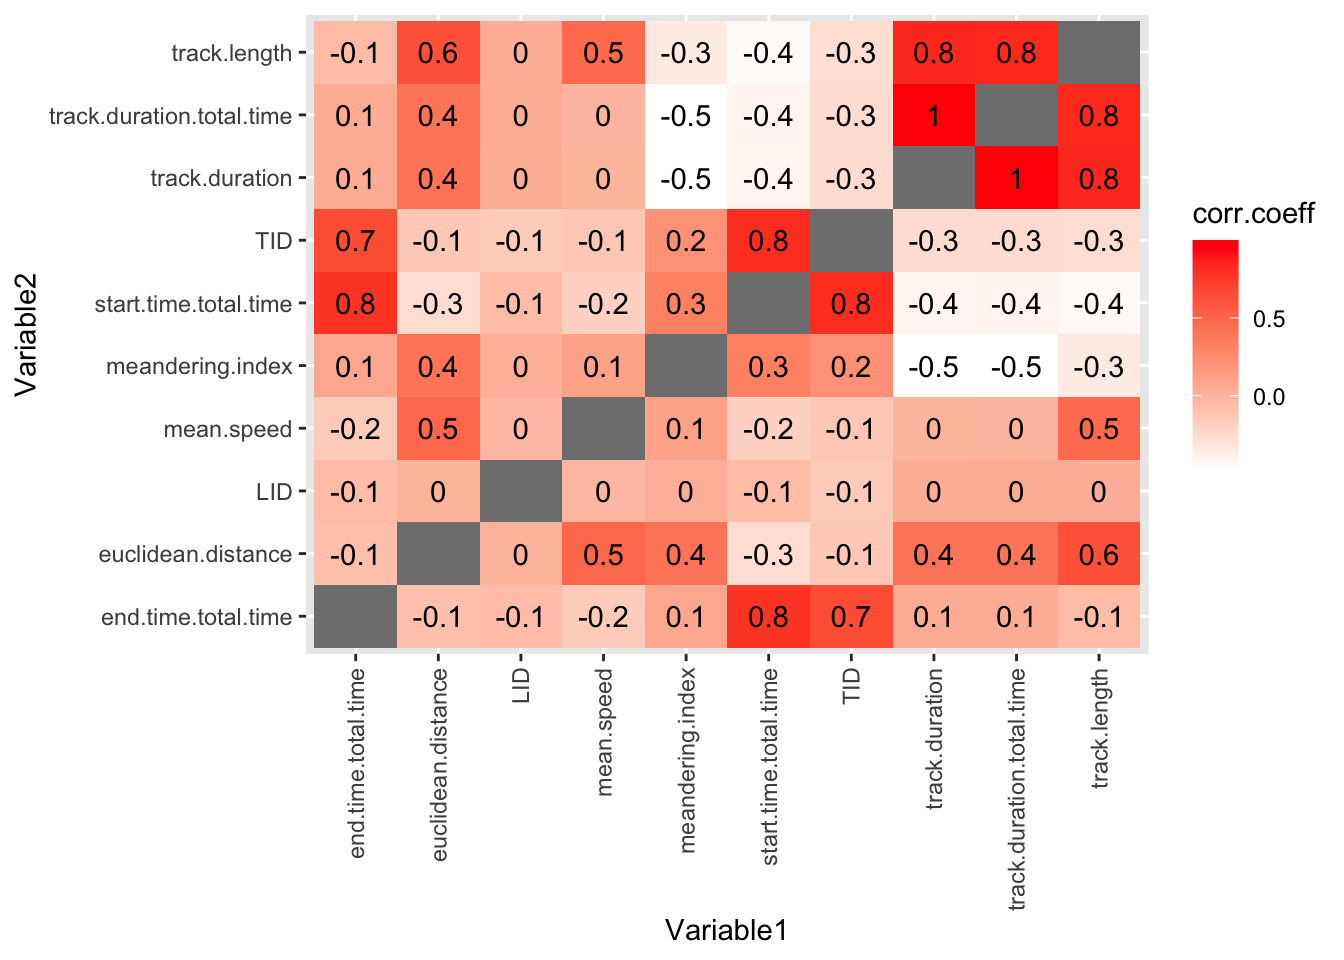
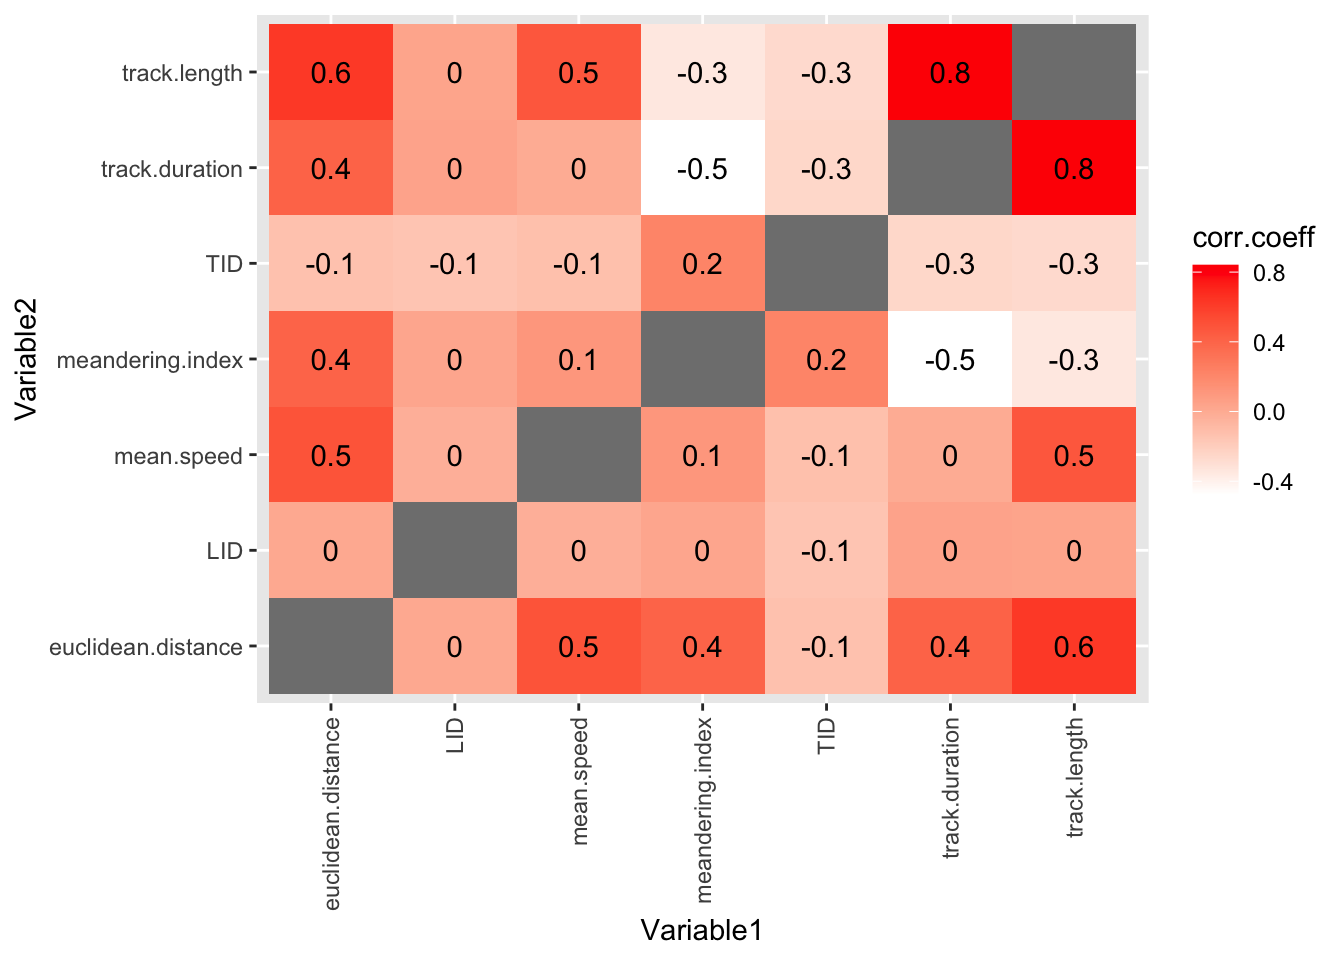
update w3 as per Amandas requests

diff --git a/docs/workshop3.html b/docs/workshop3.html
@@ -532,13 +532,13 @@ Optional
 <p>So Amanda spent many hours <em>manually</em> tracking cells. These results were processed into manual tracking data. First, load the data and of course <strong>examine what you have</strong>.</p>
 <div class="cell">
 <div class="sourceCode" id="cb16"><pre class="downlit sourceCode r code-with-copy"><code class="sourceCode R"><span><span class="co">#load the manual tracking data</span></span>
-<span><span class="va">track</span> <span class="op">&lt;-</span><span class="fu"><a href="https://readr.tidyverse.org/reference/read_delim.html">read_tsv</a></span><span class="op">(</span><span class="fu"><a href="https://rdrr.io/r/base/connections.html">url</a></span><span class="op">(</span><span class="st">"https://djeffares.github.io/BIO66I/A1-and-B2-tracking.data.tsv"</span><span class="op">)</span><span class="op">)</span></span>
+<span><span class="va">track</span> <span class="op">&lt;-</span><span class="fu"><a href="https://readr.tidyverse.org/reference/read_delim.html">read_tsv</a></span><span class="op">(</span><span class="fu"><a href="https://rdrr.io/r/base/connections.html">url</a></span><span class="op">(</span><span class="st">"https://djeffares.github.io/BIO66I/A1-and-B2-tracking.data.2025-02-27.tsv"</span><span class="op">)</span><span class="op">)</span></span>
 <span></span>
 <span><span class="co">#check it out</span></span>
 <span><span class="fu"><a href="https://pillar.r-lib.org/reference/glimpse.html">glimpse</a></span><span class="op">(</span><span class="va">track</span><span class="op">)</span></span></code><button title="Copy to Clipboard" class="code-copy-button"><i class="bi"></i></button></pre></div>
 <div class="cell-output cell-output-stdout">
 <pre><code>Rows: 201
-Columns: 13
+Columns: 10
 $ LID                           &lt;dbl&gt; 1, 1, 1, 1, 1, 1, 1, 1, 1, 1, 1, 2, 2, 2…
 $ TID                           &lt;dbl&gt; 1, 2, 3, 4, 5, 7, 8, 9, 10, 11, 12, 1, 2…
 $ track.duration                &lt;dbl&gt; 230, 1587, 1702, 2484, 2484, 1725, 2484,…
@@ -548,9 +548,6 @@ $ euclidean.distance            &lt;dbl&gt; 6.79290, 128.38031, 341.09370, 128.9
 $ mean.speed                    &lt;dbl&gt; 0.3515217, 0.3993837, 0.4181263, 0.38779…
 $ track.present.at.start.or.end &lt;lgl&gt; TRUE, FALSE, FALSE, TRUE, TRUE, FALSE, T…
 $ track.never.divides           &lt;lgl&gt; FALSE, FALSE, FALSE, FALSE, FALSE, FALSE…
-$ start.time.total.time         &lt;dbl&gt; 0.00000000, 0.04166667, 0.30681818, 0.59…
-$ end.time.total.time           &lt;dbl&gt; 0.03787879, 0.30303030, 0.58712121, 1.00…
-$ track.duration.total.time     &lt;dbl&gt; 0.03787879, 0.26136364, 0.28030303, 0.40…
 $ cell.line                     &lt;chr&gt; "A1", "A1", "A1", "A1", "A1", "A1", "A1"…</code></pre>
 </div>
 <div class="sourceCode" id="cb18"><pre class="downlit sourceCode r code-with-copy"><code class="sourceCode R"><span><span class="fu"><a href="https://rdrr.io/r/base/names.html">names</a></span><span class="op">(</span><span class="va">track</span><span class="op">)</span></span></code><button title="Copy to Clipboard" class="code-copy-button"><i class="bi"></i></button></pre></div>
@@ -559,9 +556,7 @@ $ cell.line                     &lt;chr&gt; "A1", "A1", "A1", "A1", "A1", "A1", 
  [3] "track.duration"                "track.length"                 
  [5] "meandering.index"              "euclidean.distance"           
  [7] "mean.speed"                    "track.present.at.start.or.end"
- [9] "track.never.divides"           "start.time.total.time"        
-[11] "end.time.total.time"           "track.duration.total.time"    
-[13] "cell.line"                    </code></pre>
+ [9] "track.never.divides"           "cell.line"                    </code></pre>
 </div>
 </div>
 <p>In this data, <code>TID</code> is the Livecyte <strong>tracking ID</strong>, a unique number that the microscope gives to each ‘object’ it can identify. <code>LID</code> is the Livecyte <strong>lineage ID</strong>. This keeps track of the cell lineage (ie: the initial cells, and the subsequent daughter cells that are derived from it as it divides). When a cell divides, both ‘daughter cells’ keep the same <strong>lineage ID</strong>, but each is assigned a new unique <strong>tracking ID</strong>.</p>
@@ -658,7 +653,7 @@ A Non parametric warning
 </div>
 </div>
 <div class="callout-body-container callout-body">
-<p>Here we use the non parametric test <code>method="spearman</code> to calculate correlations, because we know from looking at the data that the <code>track.length</code> and probably <code>mean.speed</code> are not normally distributed. In a <a href="https://en.wikipedia.org/wiki/Spearman%27s_rank_correlation_coefficient">Spearman rank correlation</a>, <code>rho</code> is the correlation coefficient (sometimes rho is written using the Greek symbol <strong><span class="math inline">\(\rho\)</span></strong>).</p>
+<p>Here we use the non parametric test <code>method="spearman"</code> to calculate correlations, because we know from looking at the data that the <code>track.length</code> and probably <code>mean.speed</code> are not normally distributed. In a <a href="https://en.wikipedia.org/wiki/Spearman%27s_rank_correlation_coefficient">Spearman rank correlation</a>, <code>rho</code> is the correlation coefficient (sometimes rho is written using the Greek symbol <strong><span class="math inline">\(\rho\)</span></strong>).</p>
 </div>
 </div>
 <p>But since there are 11 cell movment metrics, this would quickly become boring. And (just as importantly) the data would be a challenge to understand.</p>
@@ -677,7 +672,7 @@ Correlation computed with
 <div class="sourceCode" id="cb27"><pre class="downlit sourceCode r code-with-copy"><code class="sourceCode R"><span><span class="co">#see what we have</span></span>
 <span><span class="fu"><a href="https://rdrr.io/r/utils/head.html">head</a></span><span class="op">(</span><span class="va">track.correlations</span><span class="op">)</span></span></code><button title="Copy to Clipboard" class="code-copy-button"><i class="bi"></i></button></pre></div>
 <div class="cell-output cell-output-stdout">
-<pre><code># A tibble: 6 × 11
+<pre><code># A tibble: 6 × 8
   term                   LID    TID track.duration track.length meandering.index
   &lt;chr&gt;                &lt;dbl&gt;  &lt;dbl&gt;          &lt;dbl&gt;        &lt;dbl&gt;            &lt;dbl&gt;
 1 LID               NA       -0.148         0.0411       0.0346           0.0281
@@ -686,9 +681,7 @@ Correlation computed with
 4 track.length       0.0346  -0.268         0.840       NA               -0.345 
 5 meandering.index   0.0281   0.221        -0.477       -0.345           NA     
 6 euclidean.distan…  0.00902 -0.133         0.413        0.626            0.407 
-# ℹ 5 more variables: euclidean.distance &lt;dbl&gt;, mean.speed &lt;dbl&gt;,
-#   start.time.total.time &lt;dbl&gt;, end.time.total.time &lt;dbl&gt;,
-#   track.duration.total.time &lt;dbl&gt;</code></pre>
+# ℹ 2 more variables: euclidean.distance &lt;dbl&gt;, mean.speed &lt;dbl&gt;</code></pre>
 </div>
 </div>
 <p>Then we use <code>pivot_longer</code> ass we did in <a href="https://3mmarand.github.io/R4BABS/r4babs4/week-1/workshop.html#visualisation">BIO00066I core workshop 1</a>, to simplify the data format.</p>
@@ -730,7 +723,7 @@ Correlation computed with
 <span>  <span class="fu"><a href="https://ggplot2.tidyverse.org/reference/scale_gradient.html">scale_fill_gradient</a></span><span class="op">(</span>low <span class="op">=</span> <span class="st">"white"</span>, high <span class="op">=</span> <span class="st">"red"</span><span class="op">)</span><span class="op">+</span></span>
 <span>  <span class="fu"><a href="https://ggplot2.tidyverse.org/reference/theme.html">theme</a></span><span class="op">(</span>axis.text.x <span class="op">=</span> <span class="fu"><a href="https://ggplot2.tidyverse.org/reference/element.html">element_text</a></span><span class="op">(</span>angle <span class="op">=</span> <span class="fl">90</span>, vjust <span class="op">=</span> <span class="fl">0.5</span>, hjust<span class="op">=</span><span class="fl">1</span><span class="op">)</span><span class="op">)</span></span></code><button title="Copy to Clipboard" class="code-copy-button"><i class="bi"></i></button></pre></div>
 <div class="cell-output cell-output-stderr">
-<pre><code>Warning: Removed 10 rows containing missing values or values outside the scale range
+<pre><code>Warning: Removed 7 rows containing missing values or values outside the scale range
 (`geom_text()`).</code></pre>
 </div>
 <div class="cell-output-display">
@@ -740,6 +733,48 @@ Correlation computed with
 </div>
 </div>
 </div>
+<section id="removing-unneeded-columns" class="level3" data-number="3.6.1"><h3 data-number="3.6.1" class="anchored" data-anchor-id="removing-unneeded-columns">
+<span class="header-section-number">3.6.1</span> Removing unneeded columns</h3>
+<p>OK, this is a useful plot. If you have got this far in the workshop, <strong>you are doing well!</strong></p>
+<p>But it is a bit cluttered. We could improve it by removing the TID and LID columns, because these are arbitrary numbers that don’t tell us <em>anything</em> about the biology.</p>
+<p>Luckily, we don’t have to do all our analysis again. We can just remove these columns from the <code>track.correlations.pivot</code> data frame, before we make the plot. Here is how:</p>
+<div class="cell">
+<div class="sourceCode" id="cb33"><pre class="downlit sourceCode r code-with-copy"><code class="sourceCode R"><span><span class="co">#pipe track.correlations.pivot data frame into filter</span></span>
+<span><span class="va">track.correlations.pivot</span> <span class="op">|&gt;</span></span>
+<span></span>
+<span>  <span class="co">#filter out the TID and LID columns</span></span>
+<span>  <span class="fu"><a href="https://dplyr.tidyverse.org/reference/filter.html">filter</a></span><span class="op">(</span><span class="va">Variable1</span> <span class="op">!=</span> <span class="st">'LID'</span><span class="op">)</span> <span class="op">|&gt;</span></span>
+<span>  <span class="fu"><a href="https://dplyr.tidyverse.org/reference/filter.html">filter</a></span><span class="op">(</span><span class="va">Variable2</span> <span class="op">!=</span> <span class="st">'LID'</span><span class="op">)</span> <span class="op">|&gt;</span></span>
+<span>  <span class="fu"><a href="https://dplyr.tidyverse.org/reference/filter.html">filter</a></span><span class="op">(</span><span class="va">Variable1</span> <span class="op">!=</span> <span class="st">'TID'</span><span class="op">)</span> <span class="op">|&gt;</span></span>
+<span>  <span class="fu"><a href="https://dplyr.tidyverse.org/reference/filter.html">filter</a></span><span class="op">(</span><span class="va">Variable2</span> <span class="op">!=</span> <span class="st">'TID'</span><span class="op">)</span> <span class="op">|&gt;</span></span>
+<span>  </span>
+<span>  <span class="co">#now we put the plotting code here</span></span>
+<span>  <span class="fu"><a href="https://ggplot2.tidyverse.org/reference/ggplot.html">ggplot</a></span><span class="op">(</span><span class="fu"><a href="https://ggplot2.tidyverse.org/reference/aes.html">aes</a></span><span class="op">(</span><span class="va">Variable1</span>, <span class="va">Variable2</span><span class="op">)</span><span class="op">)</span> <span class="op">+</span></span>
+<span>  <span class="fu"><a href="https://ggplot2.tidyverse.org/reference/geom_tile.html">geom_tile</a></span><span class="op">(</span><span class="fu"><a href="https://ggplot2.tidyverse.org/reference/aes.html">aes</a></span><span class="op">(</span>fill <span class="op">=</span> <span class="va">corr.coeff</span><span class="op">)</span><span class="op">)</span> <span class="op">+</span></span>
+<span>  <span class="fu"><a href="https://ggplot2.tidyverse.org/reference/geom_text.html">geom_text</a></span><span class="op">(</span><span class="fu"><a href="https://ggplot2.tidyverse.org/reference/aes.html">aes</a></span><span class="op">(</span>label <span class="op">=</span> <span class="fu"><a href="https://rdrr.io/r/base/Round.html">round</a></span><span class="op">(</span><span class="va">corr.coeff</span>, <span class="fl">1</span><span class="op">)</span><span class="op">)</span><span class="op">)</span> <span class="op">+</span></span>
+<span>  <span class="fu"><a href="https://ggplot2.tidyverse.org/reference/scale_gradient.html">scale_fill_gradient</a></span><span class="op">(</span>low <span class="op">=</span> <span class="st">"white"</span>, high <span class="op">=</span> <span class="st">"red"</span><span class="op">)</span><span class="op">+</span></span>
+<span>  <span class="fu"><a href="https://ggplot2.tidyverse.org/reference/theme.html">theme</a></span><span class="op">(</span>axis.text.x <span class="op">=</span> <span class="fu"><a href="https://ggplot2.tidyverse.org/reference/element.html">element_text</a></span><span class="op">(</span>angle <span class="op">=</span> <span class="fl">90</span>, vjust <span class="op">=</span> <span class="fl">0.5</span>, hjust<span class="op">=</span><span class="fl">1</span><span class="op">)</span><span class="op">)</span></span></code><button title="Copy to Clipboard" class="code-copy-button"><i class="bi"></i></button></pre></div>
+<div class="cell-output cell-output-stderr">
+<pre><code>Warning: Removed 5 rows containing missing values or values outside the scale range
+(`geom_text()`).</code></pre>
+</div>
+<div class="cell-output-display">
+<div>
+<figure class="figure"><p><img src="workshop3_files/figure-html/unnamed-chunk-16-1.png" class="img-fluid figure-img" width="672"></p>
+</figure>
+</div>
+</div>
+<div class="sourceCode" id="cb35"><pre class="downlit sourceCode r code-with-copy"><code class="sourceCode R"><span><span class="co">#and voila! no more TID and LID columns</span></span></code><button title="Copy to Clipboard" class="code-copy-button"><i class="bi"></i></button></pre></div>
+</div>
+</section><section id="relate-the-maths-to-the-biology" class="level3" data-number="3.6.2"><h3 data-number="3.6.2" class="anchored" data-anchor-id="relate-the-maths-to-the-biology">
+<span class="header-section-number">3.6.2</span> Relate the maths to the biology</h3>
+<ul>
+<li><p><strong>Positive correlations</strong> mean that when one metric is high, the other is high too. For example, <code>track.length</code> and <code>mean.speed</code> are positively correlated. This makes sense, because a cell that has managed to travel a long way, is probably a fast mover.</p></li>
+<li><p><strong>Negative correlations</strong> mean that when one metric is high, the other is low. For example, <code>track.length</code> and <code>meandering.index</code> are negatively correlated. This makes sense, because a cell that meanders about (doesn’t go a in straight line) <em>probably</em> doesn’t have a long total track length?</p></li>
+<li><p><strong>Correlations near zero</strong> mean that the two metrics are not strongly related.</p></li>
+</ul>
+<p>#plot data in the track.correlations.pivot table #using geom_tile (for coloured boxes) and geom_text (to show the correlation coefficient values) track.correlations.pivot</p>
+<p>ggplot(track.correlations.pivot, aes(Variable1, Variable2)) + geom_tile(aes(fill = corr.coeff)) + geom_text(aes(label = round(corr.coeff, 1))) + scale_fill_gradient(low = “white”, high = “red”)+ theme(axis.text.x = element_text(angle = 90, vjust = 0.5, hjust=1))</p>
 <div class="callout callout-style-default callout-tip callout-titled">
 <div class="callout-header d-flex align-content-center">
 <div class="callout-icon-container">
@@ -761,7 +796,7 @@ Some points to note in this plot:
 </ul>
 </div>
 </div>
-</section></section><section id="reflection" class="level1" data-number="4"><h1 data-number="4">
+</section></section></section><section id="reflection" class="level1" data-number="4"><h1 data-number="4">
 <span class="header-section-number">4</span> Reflection</h1>
 <div class="callout callout-style-default callout-important callout-titled">
 <div class="callout-header d-flex align-content-center">
@@ -801,7 +836,7 @@ It is critical to think about what our analysis shows aout the biology
 <p>Fortunately, this information in the data already. We do <em>not</em> see the entire ‘lifetime’ of any cell tracked object that have the value <code>TRUE</code> in in the column <code>track.present.at.start.or.end</code>, because we starting tracking them some time after they were born, or stopped tracking them before they divided again.</p>
 <p>So we can filter out these lines by putting <code>filter(track.present.at.start.or.end != TRUE)</code> in our code. Let’s check if this makes any difference by comparing <code>track.length</code>without the filter, and then with the filter:</p>
 <div class="cell">
-<div class="sourceCode" id="cb33"><pre class="downlit sourceCode r code-with-copy"><code class="sourceCode R"><span><span class="co">#track.length without the filter</span></span>
+<div class="sourceCode" id="cb36"><pre class="downlit sourceCode r code-with-copy"><code class="sourceCode R"><span><span class="co">#track.length without the filter</span></span>
 <span><span class="va">no.filter.plot</span><span class="op">&lt;-</span> <span class="va">track</span> <span class="op">|&gt;</span> </span>
 <span>  <span class="fu"><a href="https://ggplot2.tidyverse.org/reference/ggplot.html">ggplot</a></span><span class="op">(</span><span class="fu"><a href="https://ggplot2.tidyverse.org/reference/aes.html">aes</a></span><span class="op">(</span>x<span class="op">=</span><span class="va">cell.line</span>, y <span class="op">=</span> <span class="va">track.length</span><span class="op">)</span><span class="op">)</span><span class="op">+</span></span>
 <span>  <span class="fu"><a href="https://ggplot2.tidyverse.org/reference/geom_violin.html">geom_violin</a></span><span class="op">(</span><span class="op">)</span><span class="op">+</span></span>
@@ -842,7 +877,7 @@ Did this make a difference?
 <span class="header-section-number">5.1.2</span> Improve the correlation heat map</h3>
 <p>What if we wanted to show only the correlations where the absolute value of <span class="math inline">\(\rho\)</span> was greater than 0.25? Try using the pipe operator <code>|&gt;</code> to filter the <code>track.correlations.pivot</code> data before plotting, with:</p>
 <div class="cell">
-<div class="sourceCode" id="cb34"><pre class="downlit sourceCode r code-with-copy"><code class="sourceCode R"><span><span class="co">#filter the data</span></span>
+<div class="sourceCode" id="cb37"><pre class="downlit sourceCode r code-with-copy"><code class="sourceCode R"><span><span class="co">#filter the data</span></span>
 <span><span class="va">track.correlations.pivot</span> <span class="op">|&gt;</span></span>
 <span>  <span class="fu"><a href="https://dplyr.tidyverse.org/reference/filter.html">filter</a></span><span class="op">(</span><span class="fu"><a href="https://rdrr.io/r/base/MathFun.html">abs</a></span><span class="op">(</span><span class="va">corr.coeff</span><span class="op">)</span> <span class="op">&gt;</span> <span class="fl">0.25</span><span class="op">)</span> <span class="op">|&gt;</span></span>
 <span><span class="co">#now we put the plotting code here </span></span>
@@ -867,7 +902,7 @@ Did this make a difference?
 <span class="header-section-number">5.3</span> In case install.packages fails</h2>
 <p>If <code>install.packages("corrr")</code> fails, you can obtain the <code>track.correlations</code> data frame like this:</p>
 <div class="cell">
-<div class="sourceCode" id="cb35"><pre class="downlit sourceCode r code-with-copy"><code class="sourceCode R"><span><span class="va">track.correlations</span> <span class="op">&lt;-</span><span class="fu"><a href="https://readr.tidyverse.org/reference/read_delim.html">read_tsv</a></span><span class="op">(</span><span class="fu"><a href="https://rdrr.io/r/base/connections.html">url</a></span><span class="op">(</span><span class="st">"https://djeffares.github.io/BIO66I/track.correlations.tsv"</span><span class="op">)</span><span class="op">)</span></span></code><button title="Copy to Clipboard" class="code-copy-button"><i class="bi"></i></button></pre></div>
+<div class="sourceCode" id="cb38"><pre class="downlit sourceCode r code-with-copy"><code class="sourceCode R"><span><span class="va">track.correlations</span> <span class="op">&lt;-</span><span class="fu"><a href="https://readr.tidyverse.org/reference/read_delim.html">read_tsv</a></span><span class="op">(</span><span class="fu"><a href="https://rdrr.io/r/base/connections.html">url</a></span><span class="op">(</span><span class="st">"https://djeffares.github.io/BIO66I/track.correlations.tsv"</span><span class="op">)</span><span class="op">)</span></span></code><button title="Copy to Clipboard" class="code-copy-button"><i class="bi"></i></button></pre></div>
 </div>
 
 

diff --git a/docs/BIO00066I-template.html b/docs/BIO00066I-template.html
@@ -355,7 +355,7 @@ This is a callout note block.
 <div class="cell">
 <div class="sourceCode" id="cb1"><pre class="downlit sourceCode r code-with-copy"><code class="sourceCode R"><span><span class="fu"><a href="https://rdrr.io/r/base/mean.html">mean</a></span><span class="op">(</span><span class="fu"><a href="https://rdrr.io/r/stats/Normal.html">rnorm</a></span><span class="op">(</span><span class="fl">100</span><span class="op">)</span><span class="op">)</span></span></code><button title="Copy to Clipboard" class="code-copy-button"><i class="bi"></i></button></pre></div>
 <div class="cell-output cell-output-stdout">
-<pre><code>[1] -0.1187563</code></pre>
+<pre><code>[1] -0.109857</code></pre>
 </div>
 </div>
 </div>
